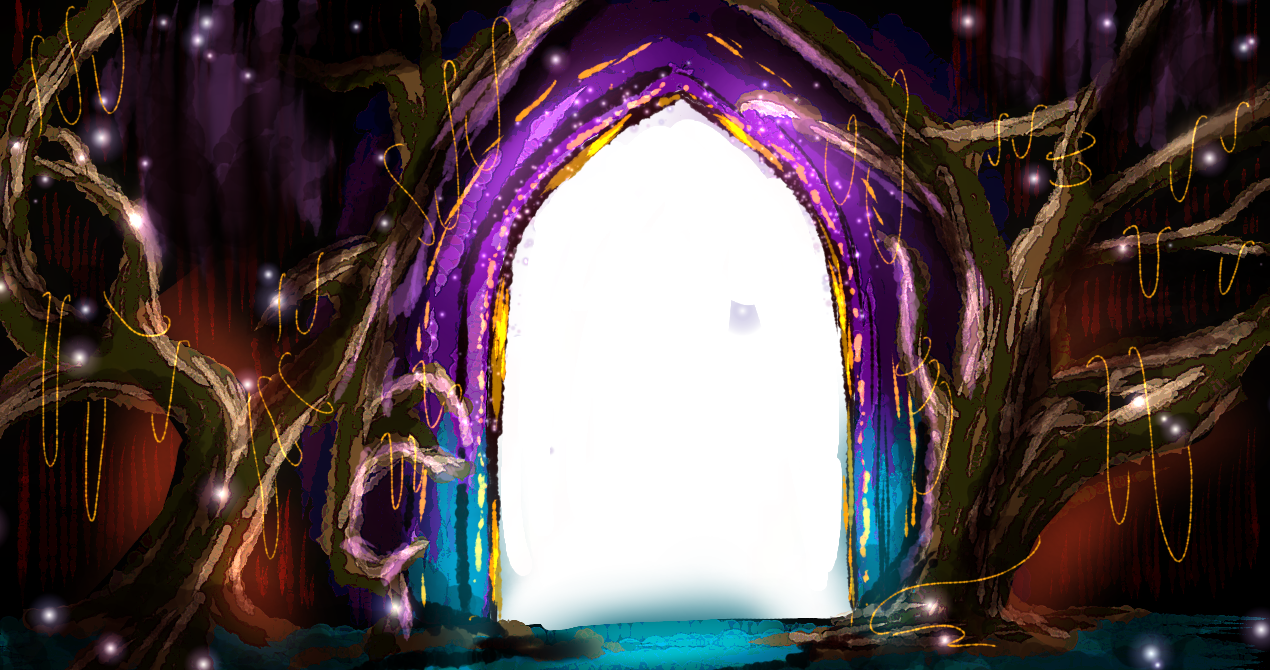
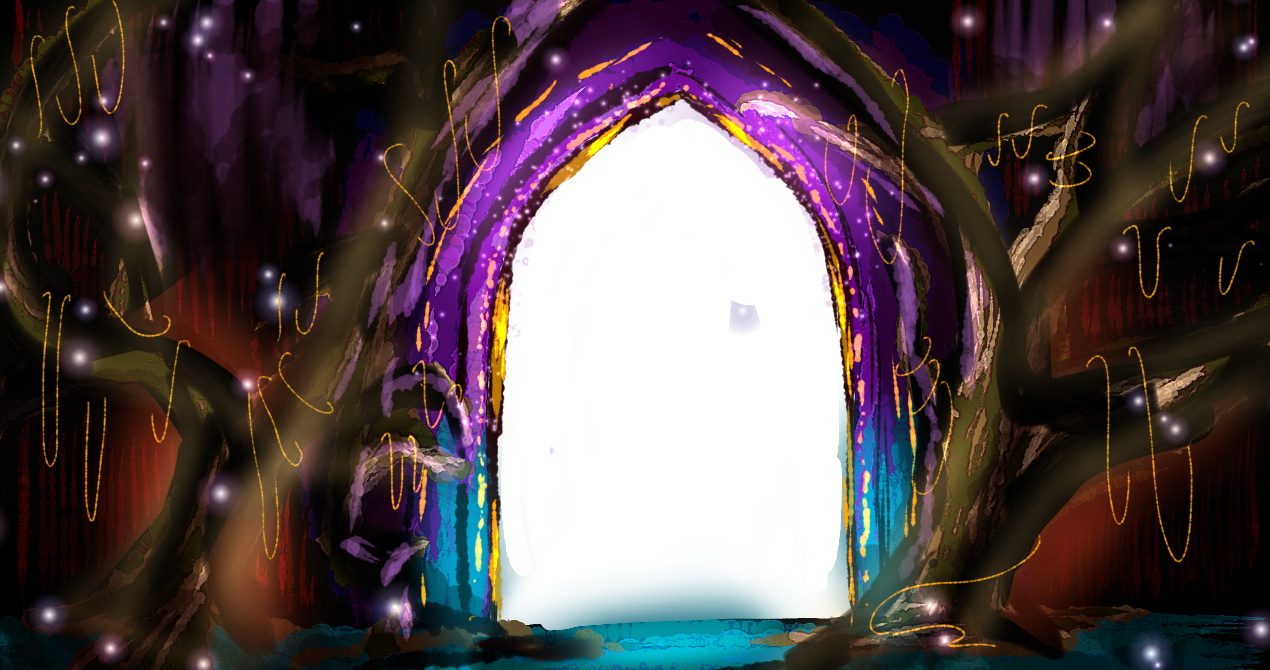
Added tree parallax

diff --git a/script.js b/script.js
@@ -11,8 +11,8 @@ let tl = gsap.timeline({
     }
 })
 
-// Phase 1: Gate zooms out
-tl.to(".gate-wrapper img", {
+// Phase 1: Gate + Tree zooms out
+tl.to([".gate-wrapper img", ".tree-wrapper img"], {
     scale: 10,
     opacity: 0,
     transformOrigin: "center center",
@@ -56,3 +56,18 @@ tl.to(".vignette", {
     duration: 2,
     ease: "power2.inOut"
 }, "<")
+
+// --- Mouse parallax for tree ---
+document.addEventListener("mousemove", (e) => {
+  // Get normalized mouse position (-0.5 to +0.5)
+  const x = (e.clientX / window.innerWidth - 0.5) * 2; 
+  const y = (e.clientY / window.innerHeight - 0.5) * 2; 
+
+  // Apply parallax to the tree image
+  gsap.to(".tree-wrapper img", {
+    x: x * 10,   // move left/right up to 30px
+    y: y * 10,   // move up/down up to 15px
+    ease: "power2.out",
+    duration: 0.6
+  });
+});

diff --git a/index.html b/index.html
@@ -22,6 +22,11 @@
         <div class="gate-wrapper">
             <img src="assets/entry-gate.png" alt="Enter Gate Image" class="enter-gate-image">
         </div>
+
+        <!-- Tree wrapper (foreground) -->
+        <div class="tree-wrapper">
+            <img src="assets/tree.png" alt="Tree" class="tree-image">
+        </div>
     </section>
     
     <script src="https://cdnjs.cloudflare.com/ajax/libs/gsap/3.12.5/gsap.min.js"></script>

diff --git a/styles.css b/styles.css
@@ -12,6 +12,21 @@ body{
     overflow: hidden;
 }
 
+.tree-wrapper {
+  position: absolute;
+  inset: 0;
+  z-index: 3; /* above gate */
+  pointer-events: none; /* not clickable */
+}
+
+.tree-image {
+  position: absolute;
+  bottom: -6vh; 
+  left: 4vw;
+  width: min(40vw, 520px);
+  height: auto;
+}
+
 .gate-wrapper,
 .after-wrapper {
     position: absolute;
